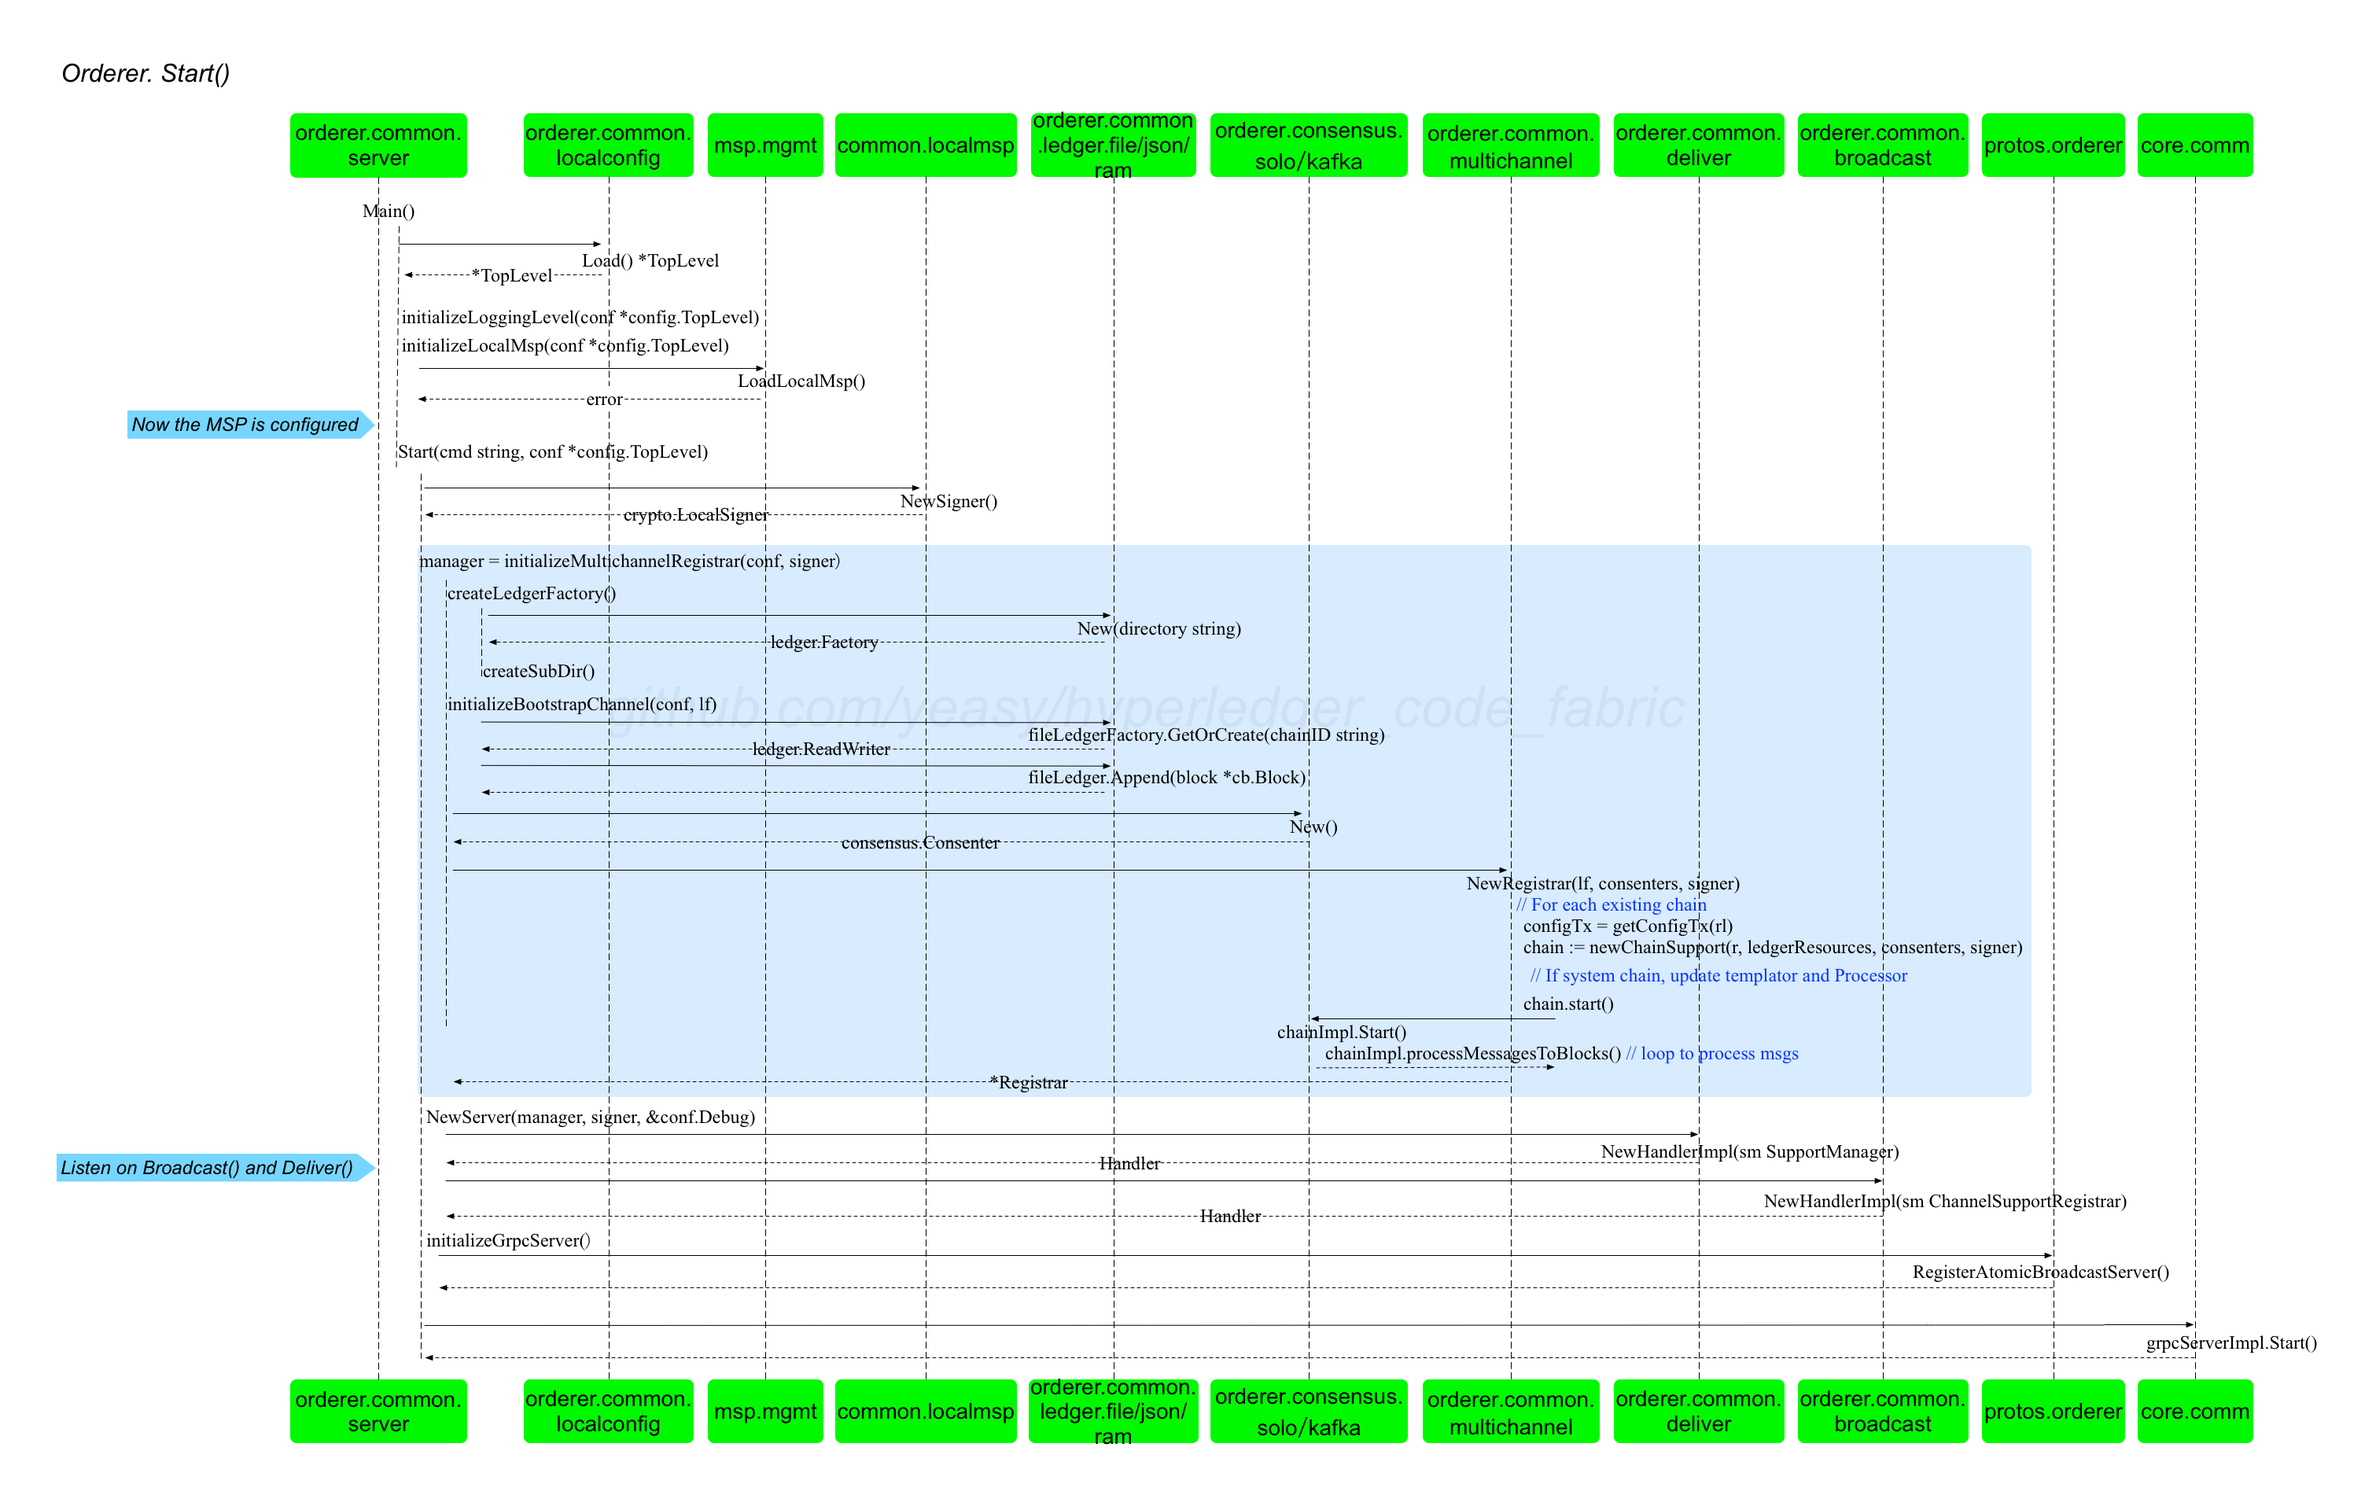
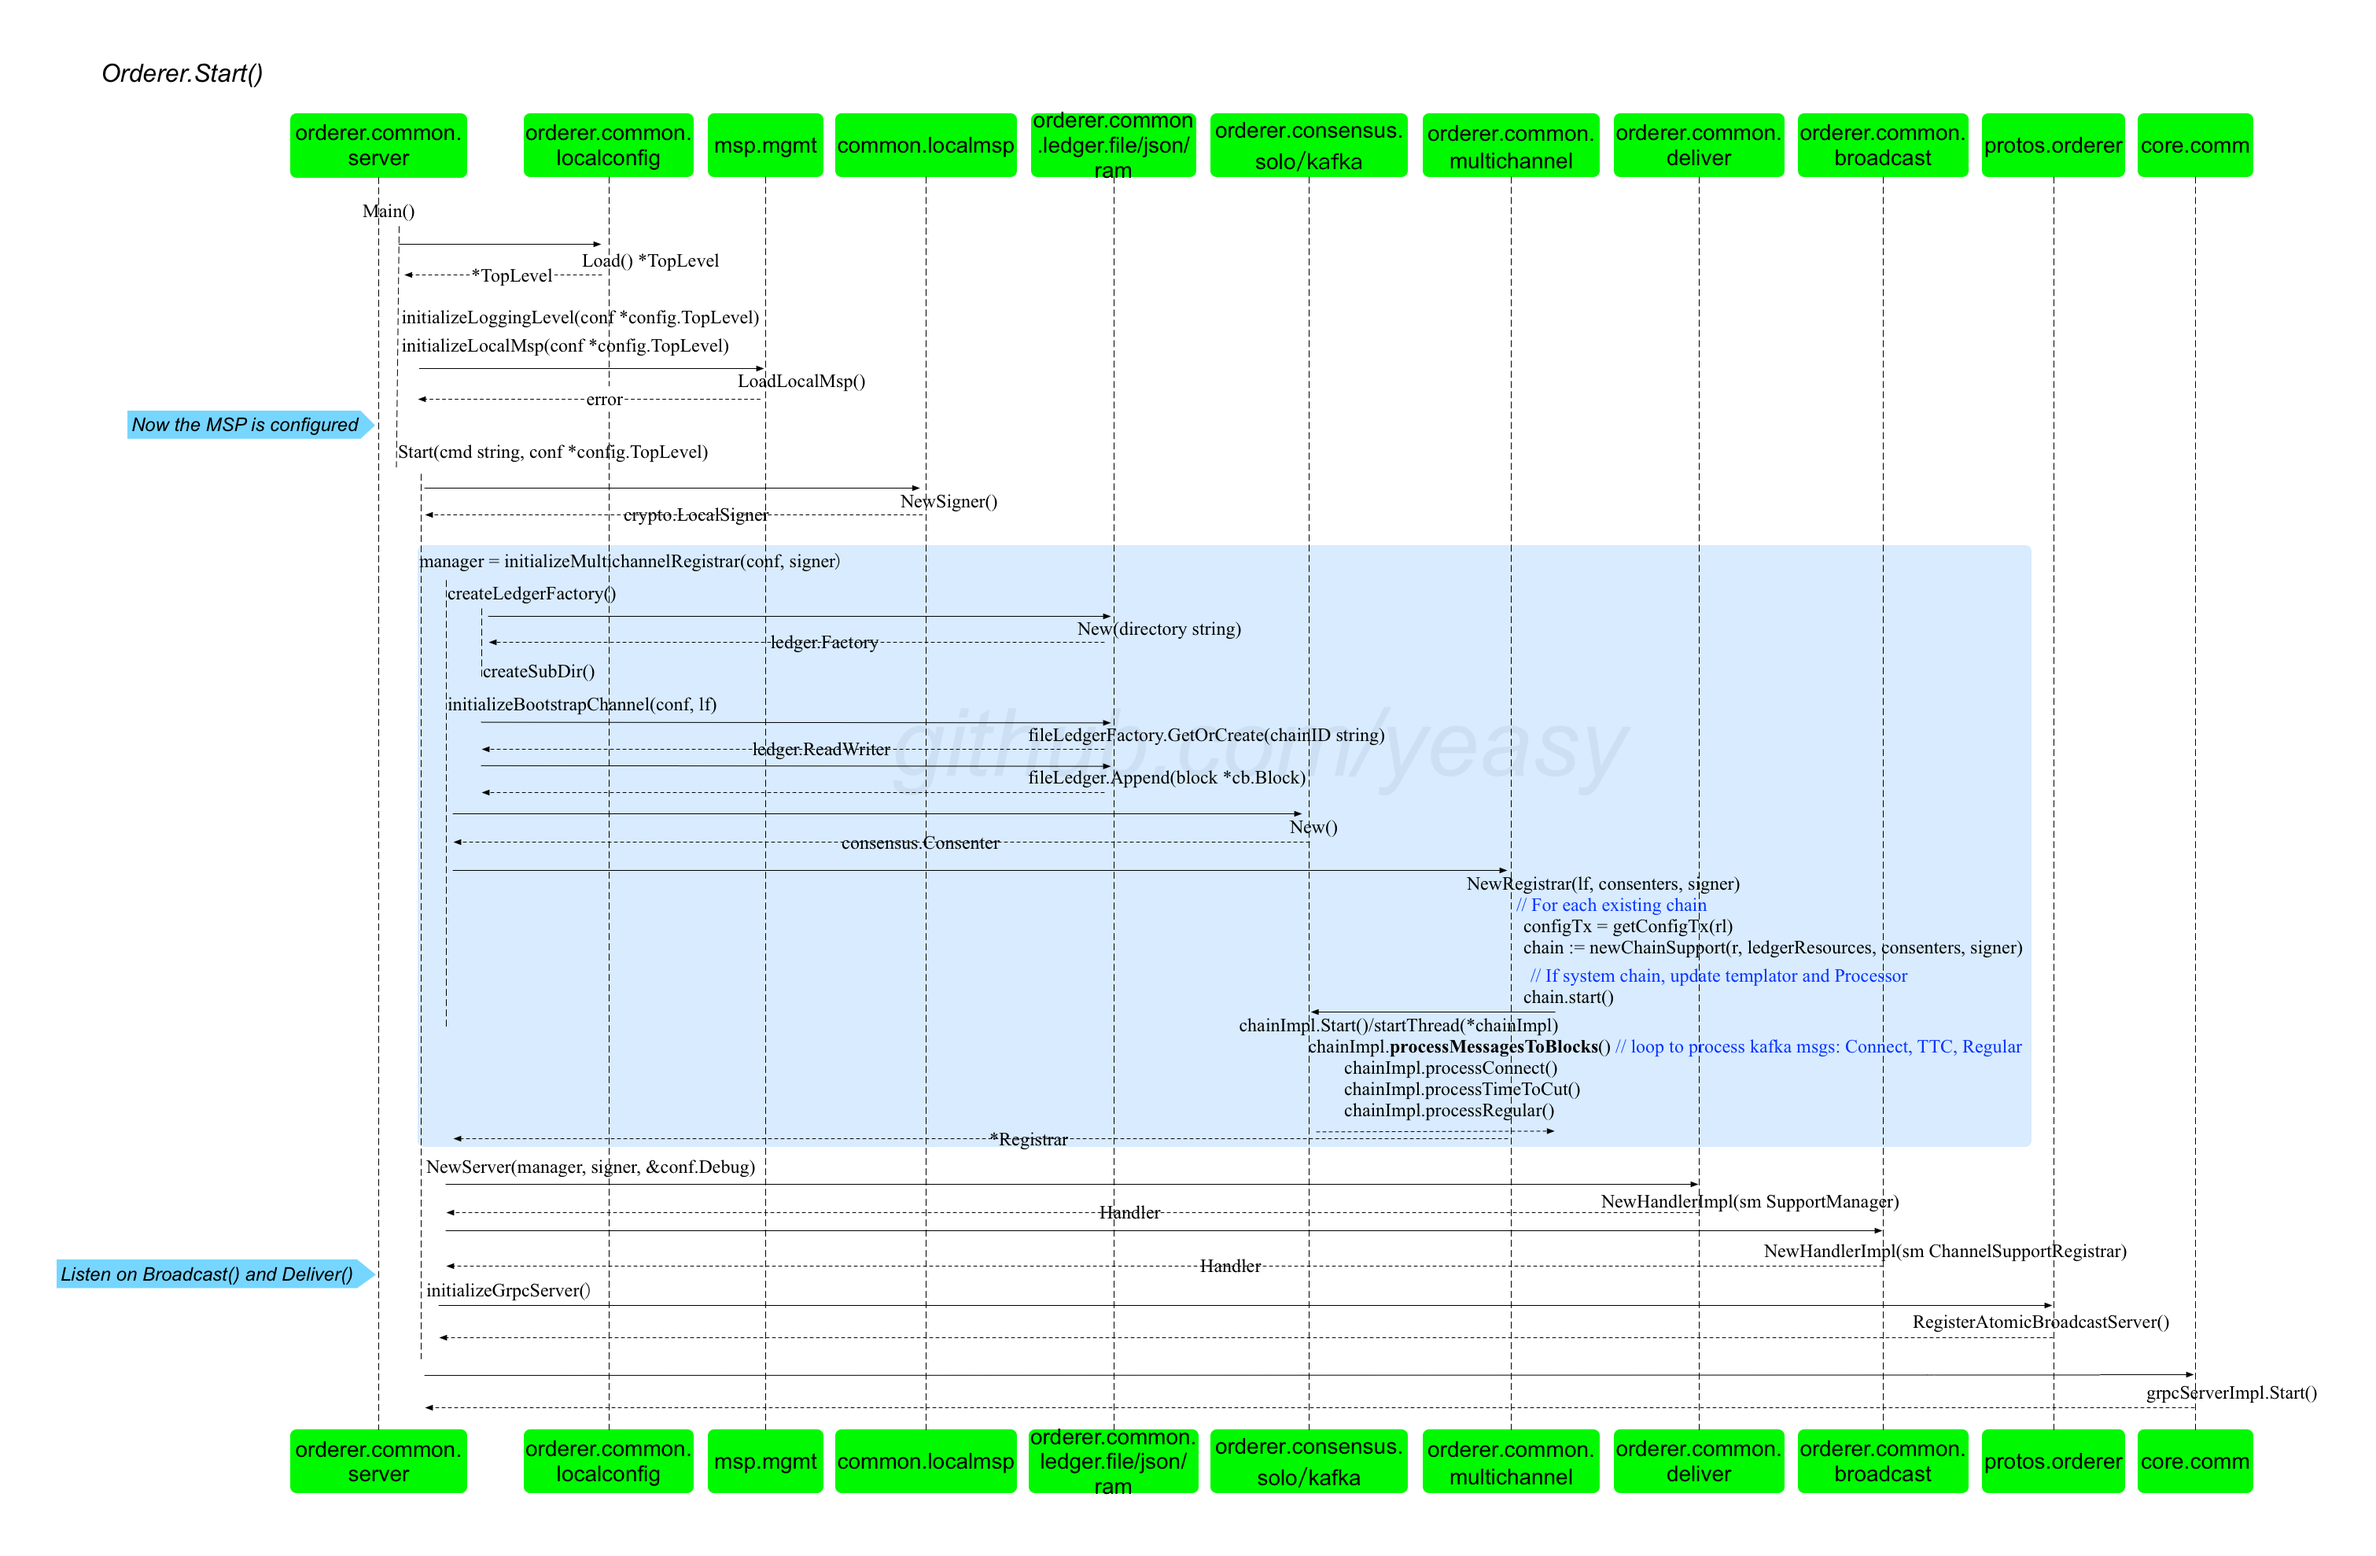
Add core func code

diff --git a/process/orderer_start.md b/process/orderer_start.md
@@ -1,4 +1,4 @@
-## Orderer 节点启动
+## Orderer 节点启动过程
 
 Orderer 节点启动通过 `orderer` 包下的 main() 方法实现，会进一步调用到 `orderer/common/server` 包中的 `Main()` 方法。
 
@@ -162,7 +162,21 @@ chain.processMessagesToBlocks()
 
 * 创建到 Kafka 集群的 Producer 结构并发送 CONNECT 消息；
 * 为对应的 topic 创建 Consumer 结构，并配置从指定分区读取消息的 PartitionConsumer 结构；
-* 启动链对应的 Kafka 分区中消息的循环处理过程。`processMessagesToBlocks()` 方法不断从分区中 Consume 消息并进行处理，同时定时发送 TimeToCut 消息。处理消息类型包括 Connect 消息（Producer 启动后发出）、TimeToCut 消息和 Regular 消息（普通的交易）。分别调用对应方法进行处理。
+* 启动链对应的 Kafka 分区中消息的循环处理过程。`processMessagesToBlocks()` 方法不断从分区中 Consume 消息并进行处理，同时定时发送 TimeToCut 消息。处理消息类型包括 Connect 消息（Producer 启动后发出）、TimeToCut 消息和 Regular 消息（Fabric 消息）。分别调用对应方法进行处理。
+
+对于 Regular 的 Fabric 消息（包括交易消息和配置消息），具体会调用 chainImpl 结构体的 `processRegular(regularMessage *ab.KafkaMessageRegular, receivedOffset int64) error` 方法进行处理。该方法的核心代码如下：
+
+```go
+func (chain *chainImpl) processRegular(regularMessage *ab.KafkaMessageRegular, receivedOffset int64) error {
+	switch regularMessage.Class {
+		case ab.KafkaMessageRegular_NORMAL: // 普通交易消息
+			chain.ProcessNormalMsg(env) //检查消息合法性
+			commitNormalMsg(env) // 处理交易消息，满足条件则切块，写入本地账本
+		case ab.KafkaMessageRegular_CONFIG: // 配置消息
+			chain.ProcessConfigMsg(env) //检查消息合法性
+			commitConfigMsg(env) // 切块，写入账本。如果是 ORDERER_TRANSACTION 消息，创建新的应用通道账本；如果是 CONFIG 消息，更新配置。
+}
+```
 
 ### gRPC 服务启动
 
